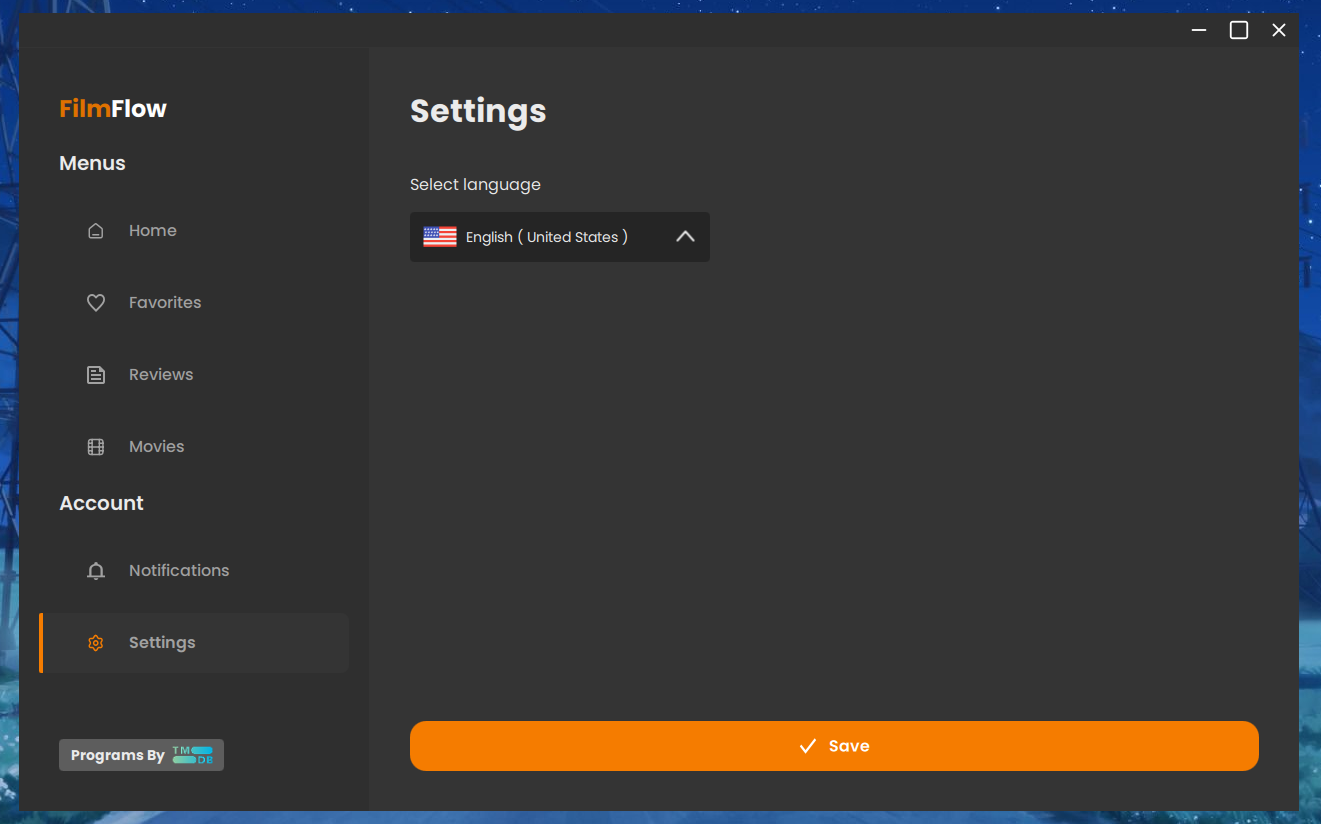
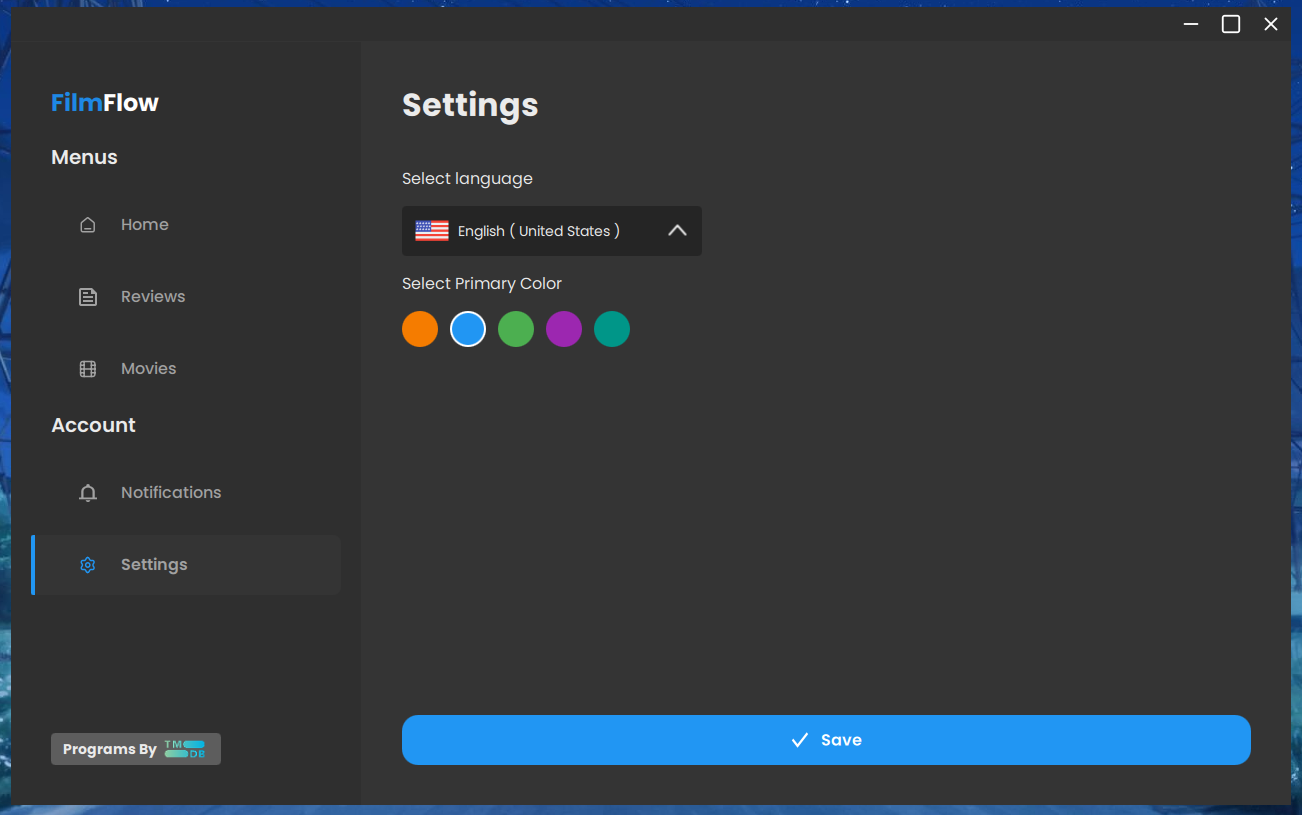
chore: Update settings image

diff --git a/README.md b/README.md
@@ -19,7 +19,7 @@ Film Flow UI é uma aplicação multiplataforma construída com Qt 6.5 e QML, pr
 
 ## Tecnologias
 
-- **Qt 6.8.3+**: Framework multiplataforma
+- **Qt 6.5+**: Framework multiplataforma
 - **QML/Qt Quick**: Interface declarativa e moderna
 - **C++17**: Lógica de negócio e performance
 - **CMake**: Sistema de build
@@ -28,7 +28,7 @@ Film Flow UI é uma aplicação multiplataforma construída com Qt 6.5 e QML, pr
 ## Requisitos
 
 - CMake 3.16 ou superior
-- Qt 6.8.3 ou superior
+- Qt 6.5 ou superior
 - Compilador C++17 compatível
 - Componentes Qt necessários:
   - Qt6::Quick
@@ -159,12 +159,11 @@ A aplicação suporta múltiplos idiomas:
 
 Atualizar linguist
 
-lupdate . -ts i18n/*.ts
-
 - Traduzir manualmente
 
-lrelease i18n/*.ts
+  - lupdate . -ts i18n/*.ts
 
+  - lrelease i18n/*.ts
 
 **Desenvolvido usando Qt/QML**
 
